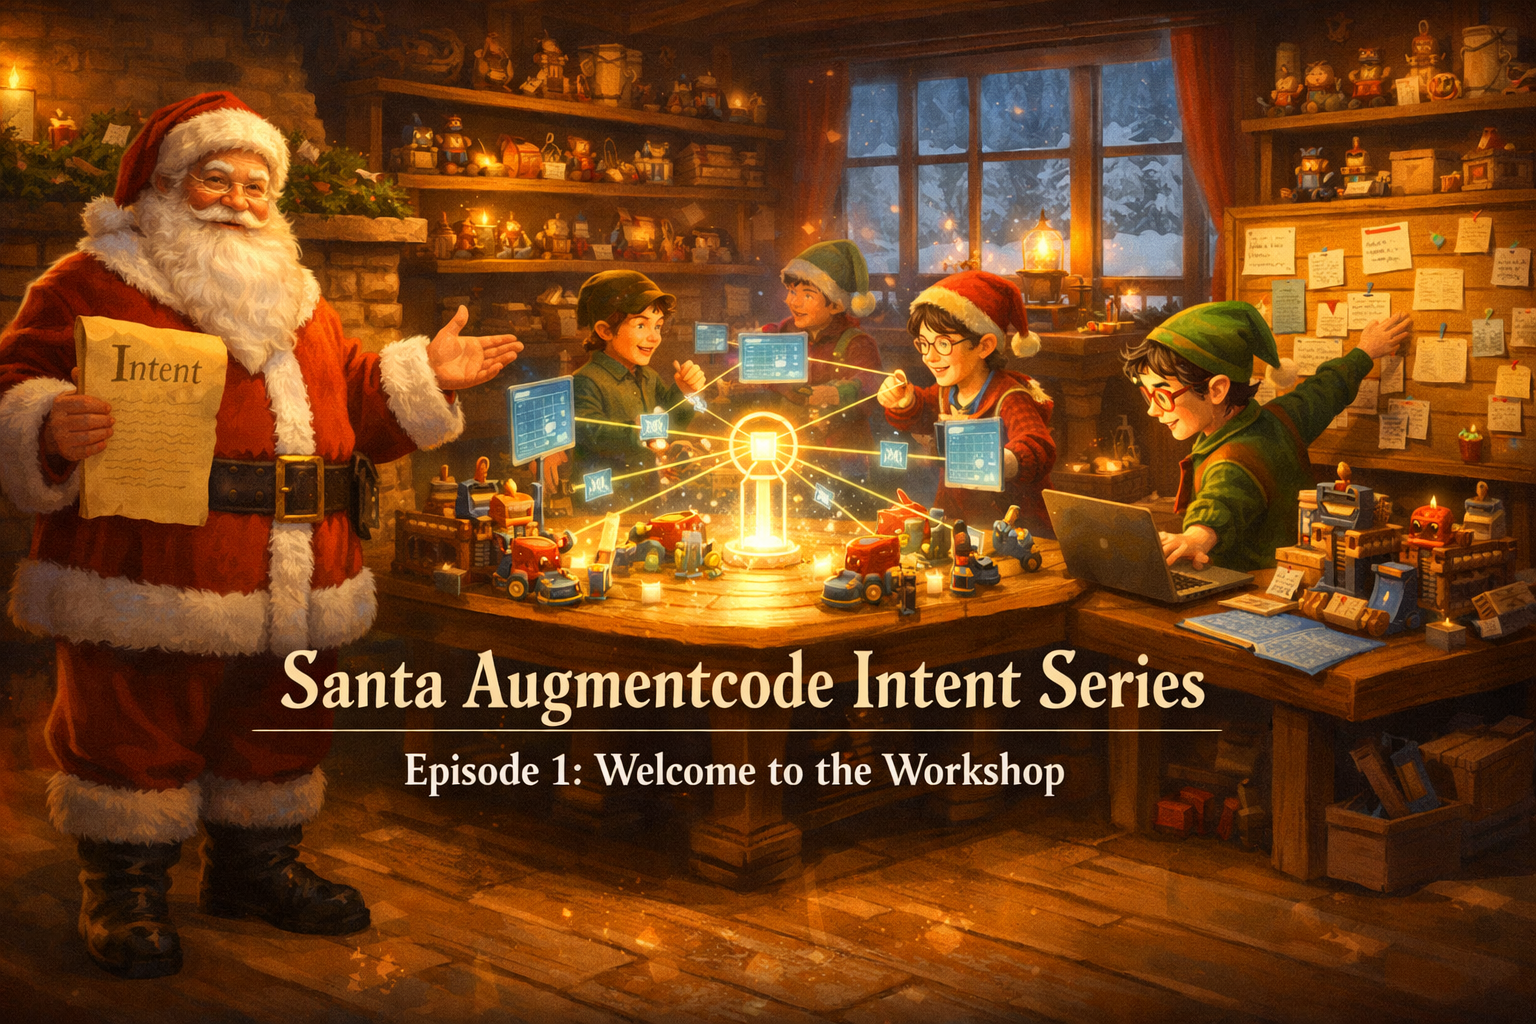
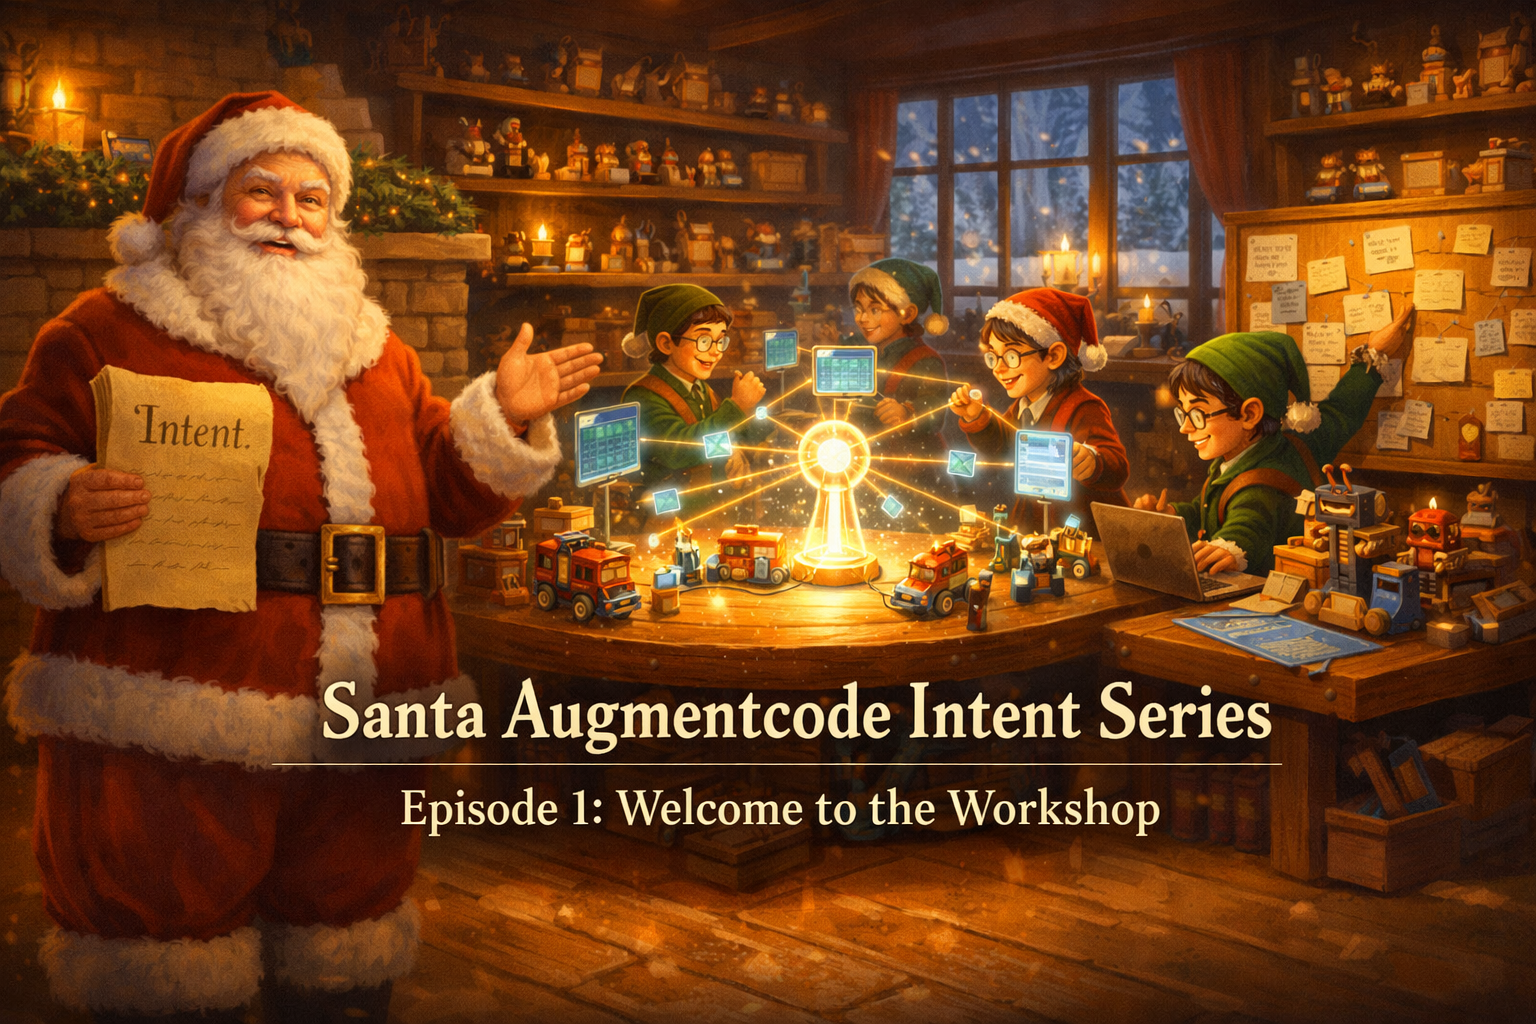
refactor(prompt-cli): strengthen character safety framing with defensive
Agent-Id: agent-28d1ddba-3a25-4451-b7cf-4dbb82e45a81

diff --git a/scripts/prompt-cli.py b/scripts/prompt-cli.py
@@ -329,20 +329,31 @@ def build_title_safety_block(series_name, episode_number, title, config):
 def build_character_safety_block():
     return (
         "Character framing requirements:\n"
-        "- Absolute priority: every main character's full face and full "
-        "headwear must remain completely visible.\n"
+        "- Non-negotiable rule: every main character's entire face, full "
+        "head, beard, hair, and all headwear must remain completely visible in "
+        "the final delivered banner image.\n"
+        "- Treat the image as a cover/banner that may be cropped slightly by "
+        "the platform at the top and bottom; compose defensively for that crop.\n"
+        "- Keep every main face inside a conservative character-safe rectangle: "
+        "roughly at least 12% in from the left/right edges, 15% below the top "
+        "edge, and 12% above the bottom edge.\n"
+        "- Treat the top roughly 15% of the canvas as a NO-FACE / NO-HAT zone "
+        "for main characters.\n"
         "- For banner illustrations with a lead presenter, default to waist-up, "
         "mid-shot, or three-quarter framing rather than a full standing figure.\n"
         "- Never crop the top of a head, hat, hair, forehead, eyes, cheeks, "
         "beard, or chin.\n"
         "- Leave obvious empty headroom above the tallest head or hat; keep at "
-        "least roughly 8-10% of image height as clear margin above the highest "
+        "least roughly 12-15% of image height as clear margin above the highest "
         "main character.\n"
         "- Keep important faces well inside a conservative character-safe area, "
         "away from every border, especially the top border.\n"
         "- If there is any conflict between showing more of a body and keeping "
         "the full face and head visible, crop lower on the body instead; never "
         "crop the face or top of the head.\n"
+        "- If any main face, beard, or hat would be even slightly clipped, make "
+        "the character smaller and move the character lower before showing more "
+        "of the body.\n"
         "- For lead presenters, prefer medium-shot or three-quarter framing "
         "instead of full-body framing when needed to preserve full face/head "
         "visibility.\n"
@@ -528,9 +539,9 @@ Avoid:
 - visual clutter
 - unreadable text
 - cramped composition
-    - cropped or partially hidden faces
-    - heads, hats, or hair touching the top edge
-    - full-body framing that causes the top of a head or hat to be cut off
+- cropped or partially hidden faces
+- heads, hats, or hair touching the top edge
+- full-body framing that causes the top of a head or hat to be cut off
 - flat lighting
 - messy perspective
 - low-detail background
